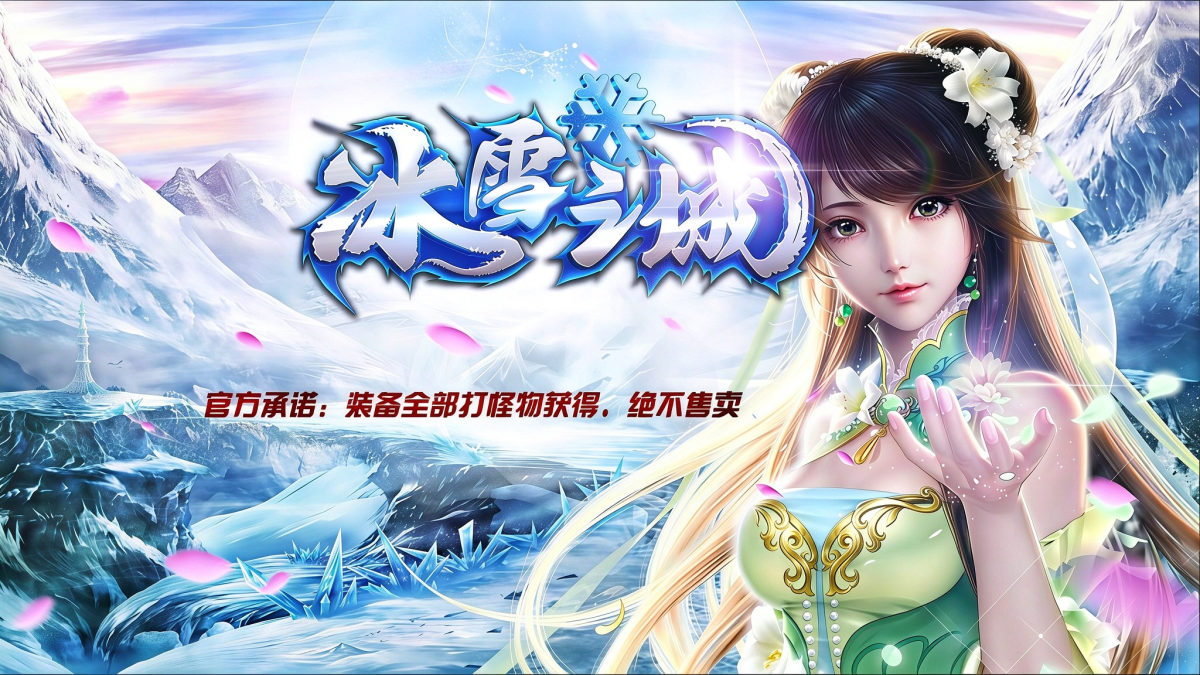
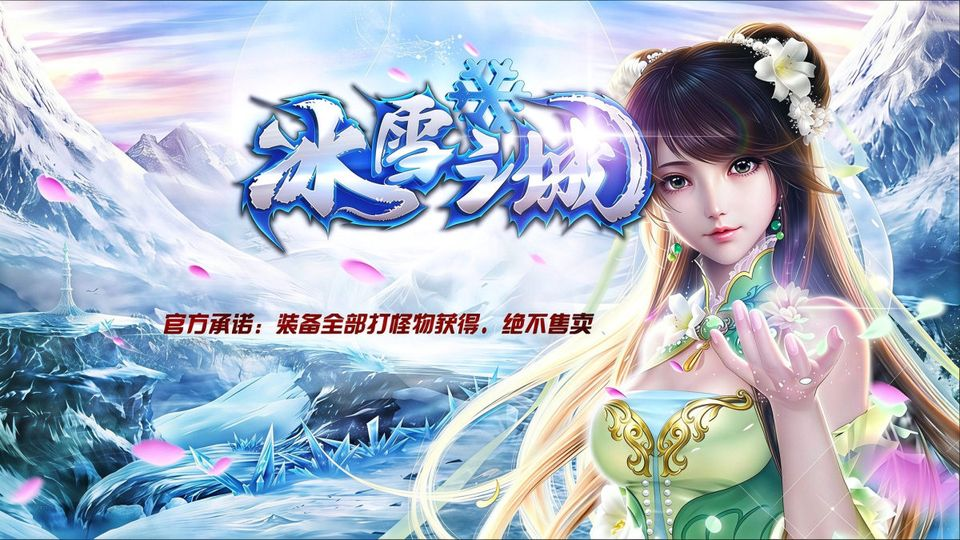
build: 重建攻略静态页与索引页并压缩图片体积

diff --git a/article/25.html b/article/25.html
@@ -457,7 +457,7 @@ s.parentNode.insertBefore(el, s);
       <span>2026-10-20</span>
       <span><a href="https://xxtl.fmbly.com/">小小屠龙-冰雪复古</a></span>
     </div>
-    <img class="cover" src="../assets/images/xxtl_guide_cover.jpg?v=20260928a" alt="小小屠龙冰雪复古起号攻略：18 步从新手村直达二大陆" width="1200" height="675" decoding="async" fetchpriority="high">
+    <img class="cover" src="../assets/images/xxtl_guide_cover.jpg?v=20260928a" alt="小小屠龙冰雪复古起号攻略：18 步从新手村直达二大陆" width="960" height="540" decoding="async" fetchpriority="high">
     <div class="body">
 <p>核验时间：2026 年 10 月 20 日（UTC+8，北京时间）。本文整理自《小小屠龙 · 冰雪复古》（游昕冰雪复古）官方起号流程手册，适用于 10 月 20 日首服开启后的新号。文中涉及充值档位的部分按原流程保留，仅作起号节奏参考，具体档位与奖励以游戏内实际显示为准。</p>
 <h2>这份攻略解决什么问题</h2>
